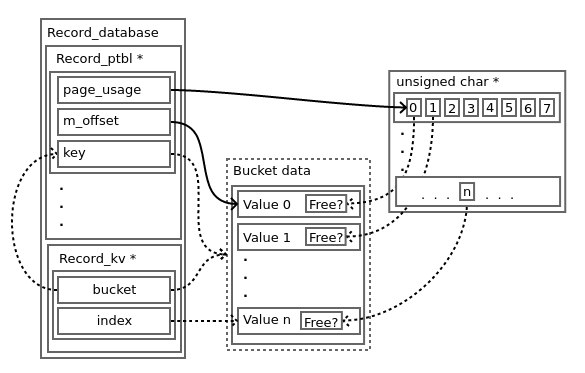
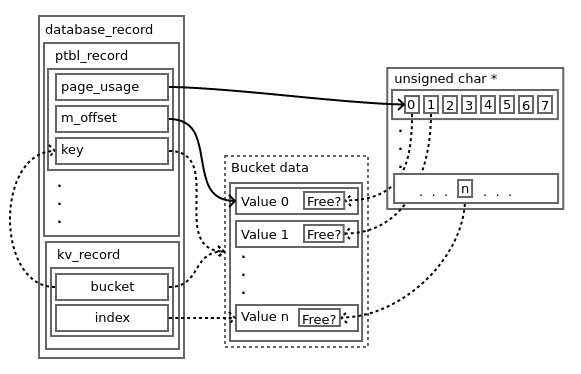
Minor changes to docs

Changed region(s): [[0.0, 0.0295, 0.9914, 0.9732], [0.7435, 0.6783, 0.7745, 0.7373]]

diff --git a/docs/index.html b/docs/index.html
@@ -90,16 +90,21 @@ $(document).ready(function(){initNavTree('index.html','');});
 </div><!--header-->
 <div class="contents">
 <div class="toc"><h3>Table of Contents</h3>
-<ul><li class="level1"><a href="#data-structures">Data Structures     </a></li>
+<ul><li class="level1"><a href="#data-structures">Data Structures     </a><ul><li class="level2"><a href="#ds-memory">Memory Management</a></li>
+</ul>
+</li>
 </ul>
 </div>
 <div class="textblock"><p>B-Key database is currently nothing more than a garbage-collector, written in C. This project is hosted <a href="https://github.com/irql/b-key">here</a> on github.</p>
 <h1><a class="anchor" id="data-structures"></a>
 Data Structures     </h1>
+<h2><a class="anchor" id="ds-memory"></a>
+Memory Management</h2>
 <div class="image">
-<img src="https://irql.github.io/b-key/images/data_structures_1.png" alt="Relationships between database data-structures"/>
+<img src="https://irql.github.io/b-key/images/data_structures_1.png" alt="Relationships between database memory-management data-structures"/>
 </div>
 <ul>
+<li><a class="el" href="structdatabase__record.html" title="Holds the global state of the database. ">database_record</a><ul>
 <li><a class="el" href="structptbl__record.html" title="Holds information relating to a bucket (key), including the number of pages allocated, as well as a pointer to those pages in memory. ">ptbl_record</a><ul>
 <li><em>page_usage</em> - pointer to an array of characters, each bit of which represents a boolean value determining whether the corresponding value slot is used (1) or not used (0)</li>
 <li><em>m_offset</em> - pointer to the start of a bucket's data (i.e. the data for values stored in a bucket)</li>
@@ -110,6 +115,8 @@ Data Structures     </h1>
 <li><em>bucket</em> - The key of the bucket (i.e. <a class="el" href="structptbl__record.html" title="Holds information relating to a bucket (key), including the number of pages allocated, as well as a pointer to those pages in memory. ">ptbl_record</a>) that the value corresponding to a key/value pair resides at</li>
 <li><em>index</em> - Used to determine the location of the value data in the extent of the bucket's data.<ul>
 <li>value_ptr = <a class="el" href="structptbl__record.html#acec45fcdf4427d3a1b62c84973d5f484" title="A pointer to the start of the allocated pages in memory. ">ptbl_record.m_offset</a> + index * <a class="el" href="records_8h.html#ab49380468cb45feb3cc044c7337b5e7c" title="Calculate max value size for bucket x. ">PTBL_CALC_BUCKET_WORD_SIZE(bucket)</a></li>
+</ul>
+</li>
 </ul>
 </li>
 </ul>

diff --git a/docs/records_8h.html b/docs/records_8h.html
@@ -529,7 +529,7 @@ typedef struct <a class="el" href="structdatabase__record.html">database_record<
 <tr class="markdownTableBody" class="markdownTableRowEven">
 <td class="markdownTableBodyRight">3  </td><td class="markdownTableBodyRight">128B   </td></tr>
 <tr class="markdownTableBody" class="markdownTableRowOdd">
-<td class="markdownTableBodyRight"><em>x</em>  </td><td class="markdownTableBodyRight">(1 &lt;&lt; (4 + <em>x</em>))   </td></tr>
+<td class="markdownTableBodyRight"><em>x</em>  </td><td class="markdownTableBodyRight">(16 &lt;&lt; <em>x</em>)   </td></tr>
 <tr class="markdownTableBody" class="markdownTableRowEven">
 <td class="markdownTableBodyRight">63  </td><td class="markdownTableBodyRight">147EB   </td></tr>
 </table>

diff --git a/docs/navtreedata.js b/docs/navtreedata.js
@@ -24,7 +24,9 @@ for the JavaScript code in this file
 var NAVTREE =
 [
   [ "B-Key DB", "index.html", [
-    [ "Data Structures     ", "index.html#data-structures", null ],
+    [ "Data Structures     ", "index.html#data-structures", [
+      [ "Memory Management", "index.html#ds-memory", null ]
+    ] ],
     [ "Classes", "annotated.html", [
       [ "Class List", "annotated.html", "annotated_dup" ],
       [ "Class Index", "classes.html", null ],

diff --git a/docs/navtreeindex0.js b/docs/navtreeindex0.js
@@ -28,6 +28,7 @@ var NAVTREEINDEX0 =
 "globals_type.html":[2,1,2],
 "index.html":[],
 "index.html#data-structures":[0],
+"index.html#ds-memory":[0,0],
 "memory_8h.html":[2,0,3],
 "memory_8h.html#a25d3abaea079ae74d3b8d19da56a30a5":[2,0,3,5],
 "memory_8h.html#a68b9fe986777bee97ccfe01a7e421060":[2,0,3,3],

diff --git a/records.h b/records.h
@@ -125,7 +125,7 @@ typedef struct ptbl_record {
  * | 1      | 32B       |
  * | 2      | 64B       |
  * | 3      | 128B      |
- * | \a x   | (1 << (4 + \a x)) |
+ * | \a x   | (16 << \a x) |
  * | 63     | 147EB     |
  *
  * @param   x bucket \f$0 \leq x \leq 63\f$

diff --git a/README.md b/README.md
@@ -6,14 +6,18 @@ This project is hosted [here](https://github.com/irql/b-key) on github.
 
 Data Structures     {#data-structures}
 ===============
-![Relationships between database data-structures](https://irql.github.io/b-key/images/data_structures_1.png)
-- ptbl_record
-  + *page_usage* - pointer to an array of characters, each bit of which represents a boolean value determining whether the corresponding value slot is used (1) or not used (0)
-  + *m_offset* - pointer to the start of a bucket's data (i.e. the data for values stored in a bucket)
-  + *key* - Positive integer value which identifies the bucket numerically. This value is *six bits* in size.
-- kv_record
-  + *bucket* - The key of the bucket (i.e. ptbl_record) that the value corresponding to a key/value pair resides at
-  + *index* - Used to determine the location of the value data in the extent of the bucket's data.
-    - value_ptr = ptbl_record.m_offset + index * PTBL_CALC_BUCKET_WORD_SIZE(bucket)
+
+## Memory Management {#ds-memory}
+
+![Relationships between database memory-management data-structures](https://irql.github.io/b-key/images/data_structures_1.png)
+- database_record
+  + ptbl_record
+    - *page_usage* - pointer to an array of characters, each bit of which represents a boolean value determining whether the corresponding value slot is used (1) or not used (0)
+    - *m_offset* - pointer to the start of a bucket's data (i.e. the data for values stored in a bucket)
+    - *key* - Positive integer value which identifies the bucket numerically. This value is *six bits* in size.
+  + kv_record
+    - *bucket* - The key of the bucket (i.e. ptbl_record) that the value corresponding to a key/value pair resides at
+    - *index* - Used to determine the location of the value data in the extent of the bucket's data.
+      + value_ptr = ptbl_record.m_offset + index * PTBL_CALC_BUCKET_WORD_SIZE(bucket)
 
 See records.h.
